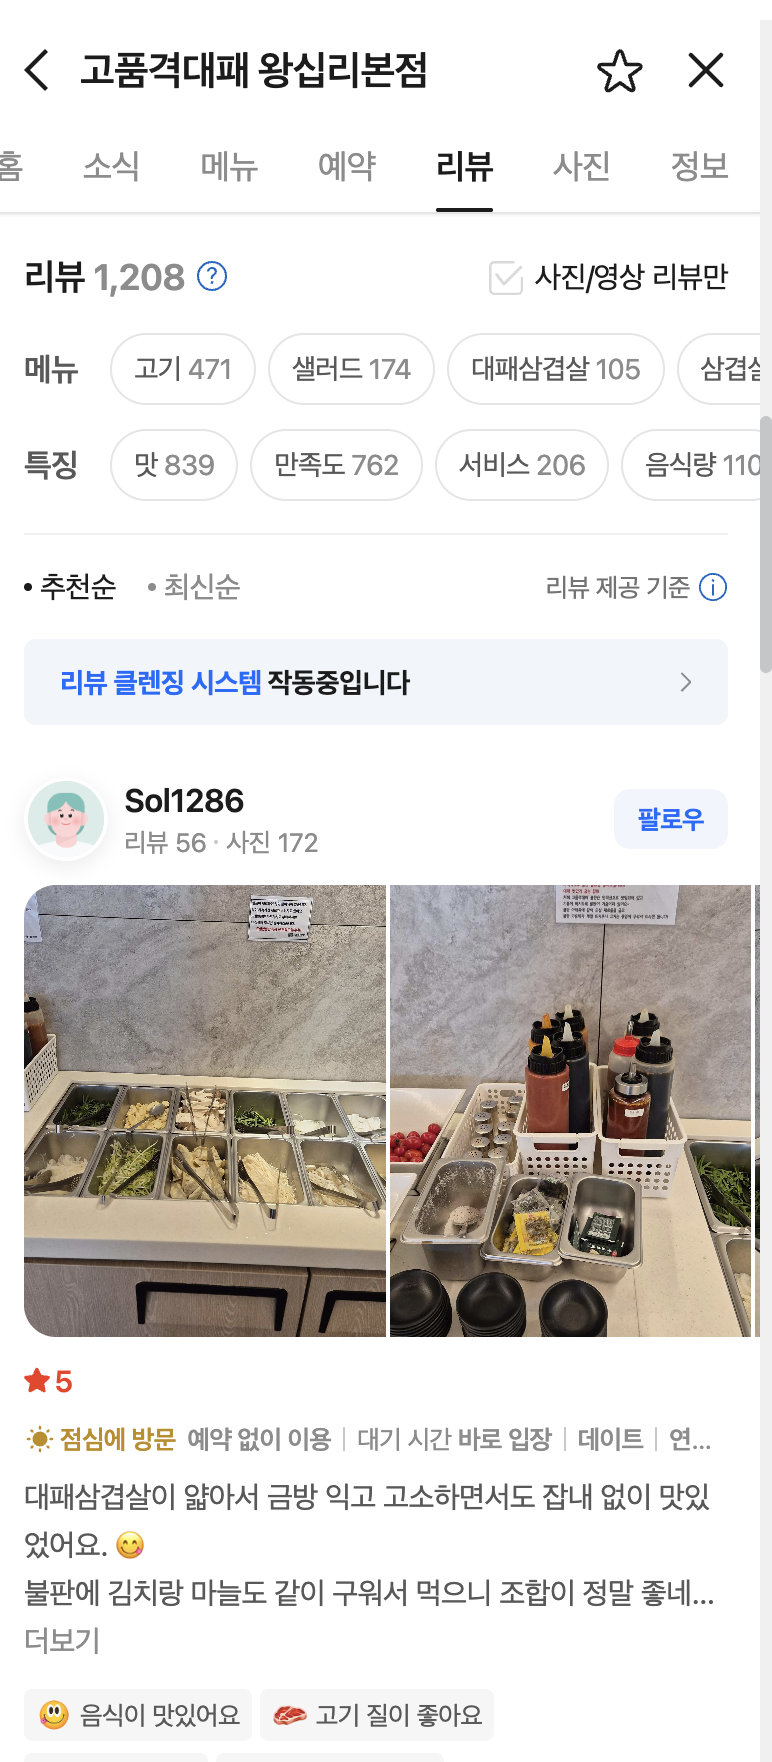
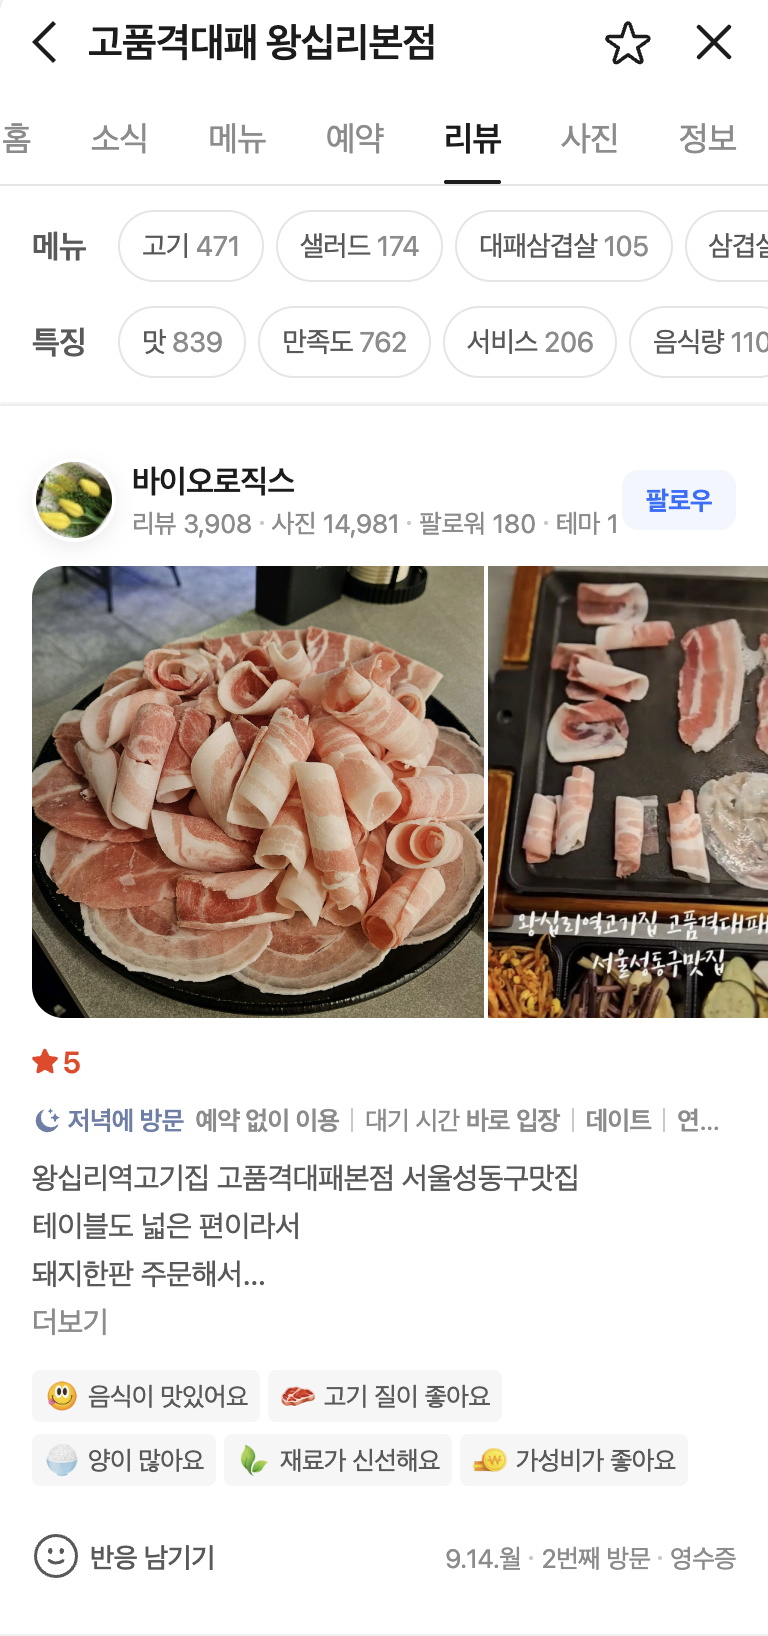
리뷰 섹션 개선 및 콘텐츠 수정
- .review-phone__screen height:auto + object-fit:cover로 왜곡 없이 프레임 안에 표시
- 리뷰 카드를 네이버 리뷰 탭(placePath=/review) 딥링크로 연결
- 리뷰 수치 갱신(시흥 은계 320+, 왕십리 1,208+, 천호 1,002+)
- 천호 직영점 오픈일 2025.02.11로 수정
- 인스타그램 아이디 @go_daepae_ 반영, 푸터 Instagram 링크 실제 URL 연결
- 브랜드 문구 "고품격 대패삼겹살 전문점" → "고품격대패", 저작권 표기 소문자로 변경

diff --git a/src/components/sections/Reviews.tsx b/src/components/sections/Reviews.tsx
@@ -22,9 +22,15 @@ export function Reviews() {
           </p>
         </div>
         <div className="review-grid" ref={gridRef}>
-          <div className="review-item">
+          <a
+            className="review-item"
+            href="https://map.naver.com/p/search/고품격대패 시흥 은계?placePath=%2Freview"
+            target="_blank"
+            rel="noopener noreferrer"
+            aria-label="고품격대패 시흥 은계점 네이버 리뷰 보기 (새 창)"
+          >
             <div className="review-badge">
-              시흥 은계점 <b>리뷰 116+</b>
+              시흥 은계점 <b>리뷰 320+</b>
             </div>
             <div className="review-phone">
               <img
@@ -39,10 +45,16 @@ export function Reviews() {
                 aria-hidden="true"
               />
             </div>
-          </div>
-          <div className="review-item">
+          </a>
+          <a
+            className="review-item"
+            href="https://map.naver.com/p/search/고품격대패 왕십리?placePath=%2Freview"
+            target="_blank"
+            rel="noopener noreferrer"
+            aria-label="고품격대패 왕십리 본점 네이버 리뷰 보기 (새 창)"
+          >
             <div className="review-badge">
-              왕십리 본점 <b>리뷰 675+</b>
+              왕십리 본점 <b>리뷰 1,208+</b>
             </div>
             <div className="review-phone">
               <img
@@ -57,10 +69,16 @@ export function Reviews() {
                 aria-hidden="true"
               />
             </div>
-          </div>
-          <div className="review-item">
+          </a>
+          <a
+            className="review-item"
+            href="https://map.naver.com/p/search/고품격대패 천호?placePath=%2Freview"
+            target="_blank"
+            rel="noopener noreferrer"
+            aria-label="고품격대패 천호 직영점 네이버 리뷰 보기 (새 창)"
+          >
             <div className="review-badge">
-              천호 직영점 <b>리뷰 24+</b>
+              천호 직영점 <b>리뷰 1,002+</b>
             </div>
             <div className="review-phone">
               <img
@@ -75,7 +93,7 @@ export function Reviews() {
                 aria-hidden="true"
               />
             </div>
-          </div>
+          </a>
         </div>
       </div>
     </section>

diff --git a/src/components/layout/SiteFooter.tsx b/src/components/layout/SiteFooter.tsx
@@ -1,4 +1,8 @@
+import content from "@/data/content.json";
+
 export function SiteFooter() {
+  const { instagram, instagramUrl } = content.contact;
+
   return (
     <footer>
       <div className="wrap footer-grid">
@@ -6,11 +10,18 @@ export function SiteFooter() {
           <img src="/assets/imgs/logo_gold.png" alt="logo" /> <span>고품격대패</span>
         </div>
         <div className="meta">
-          고품격 대패삼겹살 전문점 · 창업문의 1877-1960
-          <br />© GOPUMGYEOK DAEPAE. All rights reserved.
+          고품격대패 · 창업문의 1877-1960
+          <br />© gopoomgyeok daepae. All rights reserved.
         </div>
         <div className="socials">
-          <a href="#">Instagram</a>
+          <a
+            href={instagramUrl}
+            target="_blank"
+            rel="noopener noreferrer"
+            aria-label={`인스타그램 ${instagram} (새 창)`}
+          >
+            Instagram
+          </a>
           <a href="#">창업안내</a>
         </div>
       </div>

diff --git a/src/app/layout.tsx b/src/app/layout.tsx
@@ -19,7 +19,7 @@ import { CmsPopupModal } from "@/components/popup/CmsPopupModal";
 const SITE_URL = "https://xn--i89a2dz9q2p1bhpb.com";
 const SITE_TITLE = "고품격대패 대패의 격이 다르다";
 const SITE_DESCRIPTION =
-  "해썹 인증 국내산 암퇘지와 UN 인증 친환경 브랜드 '아그로수퍼', 25종 이상 셀프바로 완성하는 고품격 대패삼겹살 전문점. 프랜차이즈 창업 문의는 지금 바로.";
+  "해썹 인증 국내산 암퇘지와 UN 인증 친환경 브랜드 '아그로수퍼', 25종 이상 셀프바로 완성하는 고품격대패. 프랜차이즈 창업 문의는 지금 바로.";
 
 export const metadata: Metadata = {
   metadataBase: new URL(SITE_URL),

diff --git a/src/styles/legacy/style.css b/src/styles/legacy/style.css
@@ -1019,7 +1019,10 @@ section {
   left: 4.2%;
   top: 7.5%;
   width: 92%;
-  height: 90%;
+  height: auto;
+  max-height: 90%;
+  object-fit: cover;
+  object-position: top;
   border-radius: 0 0 30px 30px;
 }
 .review-phone__frame {
